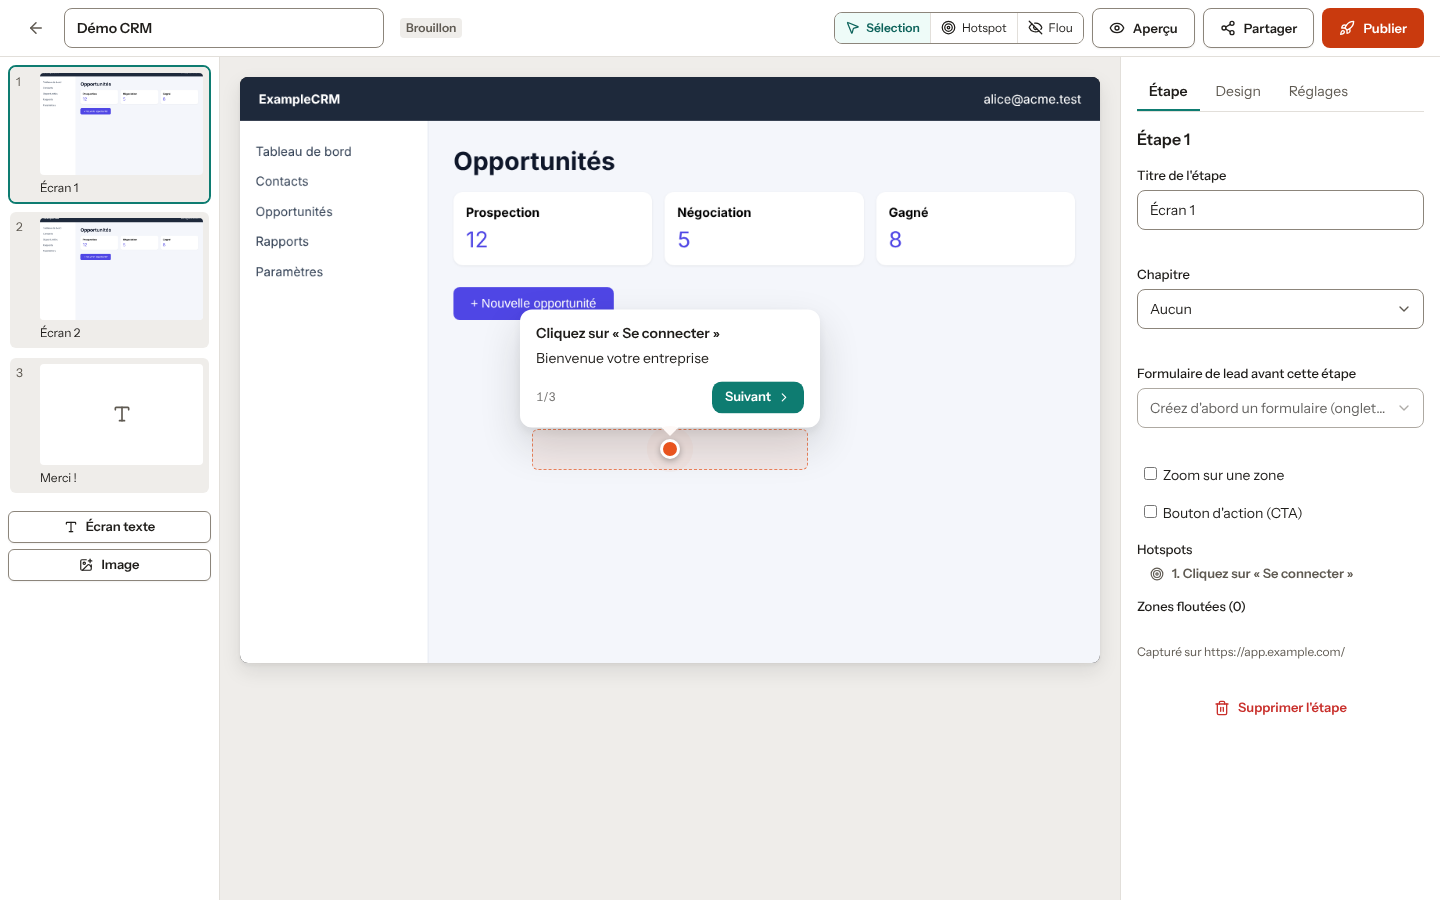
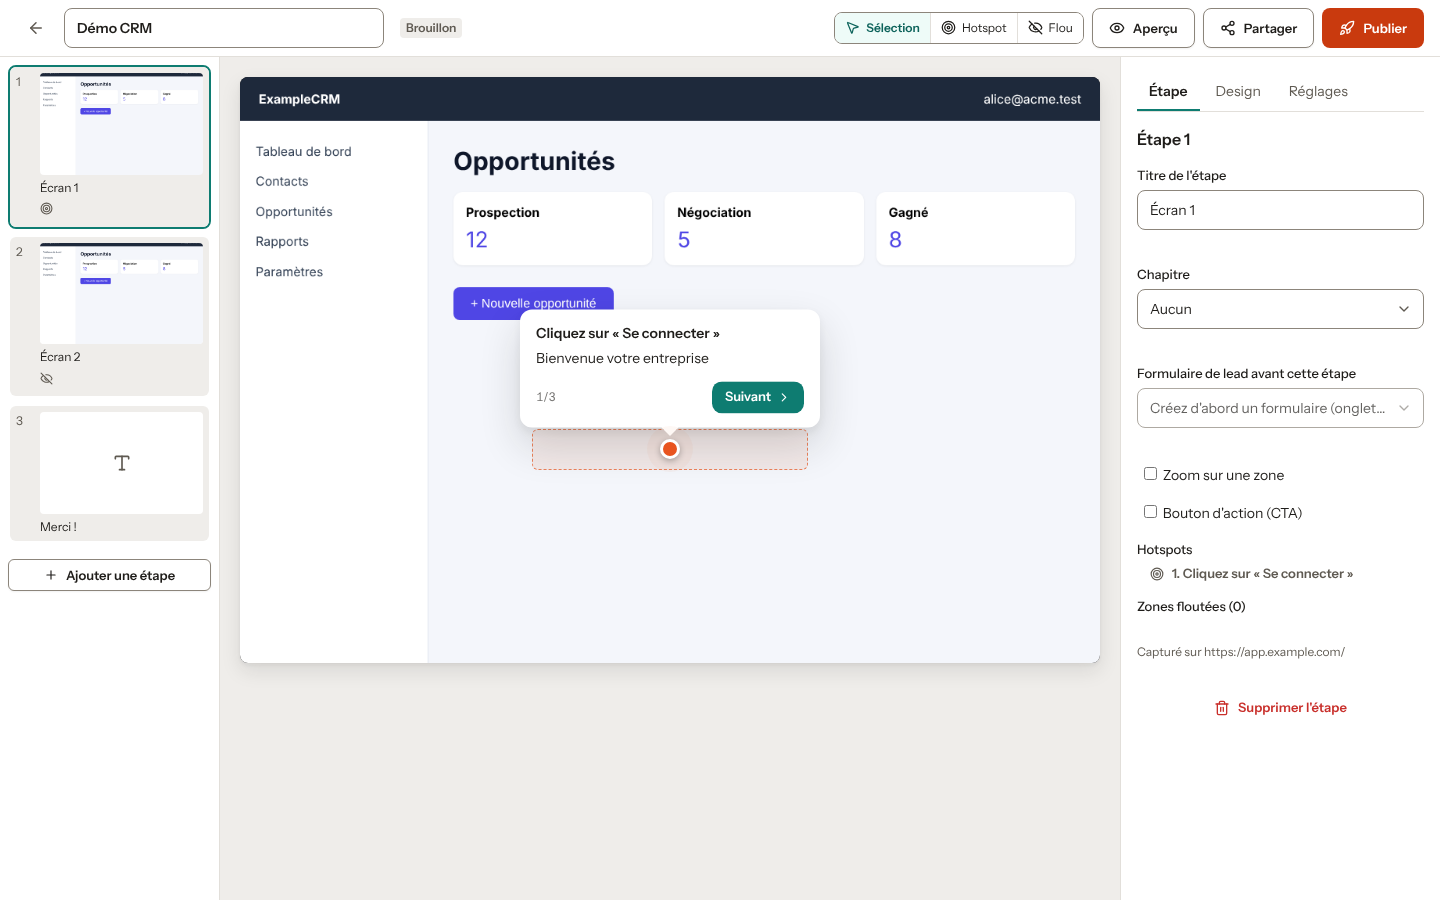
feat(editor): ED8 et ED10 — formulaire visible sur le canevas, badges d'état et menu « Ajouter une étape » dans le rail
Claude-Session: https://claude.ai/code/session_016yn81ZxTg2ruYKp45zgJVh

Changed region(s): [[0.0, 0.2178, 0.1562, 0.3111], [0.0, 0.56, 0.125, 0.6533], [0.0312, 0.3733, 0.0625, 0.4044]]

diff --git a/apps/web/src/pages/editor/StepList.tsx b/apps/web/src/pages/editor/StepList.tsx
@@ -1,7 +1,20 @@
-import { ArrowDown, ArrowUp, ImageOff, ImagePlus, Type } from 'lucide-react';
+import {
+  ArrowDown,
+  ArrowUp,
+  ClipboardList,
+  EyeOff,
+  ImageOff,
+  ImagePlus,
+  MousePointerClick,
+  Plus,
+  Target,
+  Type,
+  ZoomIn,
+} from 'lucide-react';
+import { Menu } from '../../components/Menu';
+import type { StepRow } from './types';
 import { useRef, useState } from 'react';
 import { useTranslation } from 'react-i18next';
-import { Button } from '@flowdsiml/ui';
 import type { DemoEditor } from './useDemoEditor';
 
 export function StepList({
@@ -67,6 +80,7 @@ export function StepList({
                   </span>
                 )}
                 <span className="steplist-title">{s.title || t('editor.untitled')}</span>
+                <StepBadges step={s} hotspots={editor.hotspots.filter((h) => h.step_id === s.id).length} />
               </button>
               {!readOnly && (
                 <span className="steplist-move">
@@ -92,18 +106,20 @@ export function StepList({
       </ol>
       {!readOnly && (
         <div className="stack" style={{ gap: 6, padding: 8 }}>
-          <Button
-            size="sm"
-            icon={<Type />}
-            onClick={() =>
-              void editor.addTextStep(current, t('editor.newTextStep')).then(() => onSelect(current + 1))
-            }
-          >
-            {t('editor.addTextStep')}
-          </Button>
-          <Button size="sm" icon={<ImagePlus />} onClick={() => file.current?.click()}>
-            {t('editor.addImageStep')}
-          </Button>
+          <Menu
+            label={t('editor.addStep')}
+            align="start"
+            trigger={{ icon: <Plus />, text: t('editor.addStep'), block: true }}
+            items={[
+              {
+                label: t('editor.addTextStep'),
+                icon: <Type />,
+                onSelect: () =>
+                  void editor.addTextStep(current, t('editor.newTextStep')).then(() => onSelect(current + 1)),
+              },
+              { label: t('editor.addImageStep'), icon: <ImagePlus />, onSelect: () => file.current?.click() },
+            ]}
+          />
           <input
             ref={file}
             type="file"
@@ -118,5 +134,28 @@ export function StepList({
         </div>
       )}
     </div>
+  );
+}
+
+/** Icônes d'état d'une étape dans le rail (ED10). */
+function StepBadges({ step, hotspots }: { step: StepRow; hotspots: number }) {
+  const { t } = useTranslation();
+  const blurs = Array.isArray(step.blurs) ? step.blurs.length : 0;
+  const items = [
+    hotspots > 0 && { icon: <Target />, label: t('editor.badgeHotspots', { count: hotspots }) },
+    step.gate_form_id && { icon: <ClipboardList />, label: t('editor.badgeForm') },
+    step.cta && { icon: <MousePointerClick />, label: t('editor.badgeCta') },
+    step.zoom && { icon: <ZoomIn />, label: t('editor.badgeZoom') },
+    blurs > 0 && { icon: <EyeOff />, label: t('editor.badgeBlurs', { count: blurs }) },
+  ].filter(Boolean) as Array<{ icon: React.ReactNode; label: string }>;
+  if (!items.length) return null;
+  return (
+    <span className="steplist-badges">
+      {items.map((b) => (
+        <span key={b.label} title={b.label} aria-label={b.label} role="img">
+          {b.icon}
+        </span>
+      ))}
+    </span>
   );
 }

diff --git a/apps/web/src/pages/editor/Canvas.tsx b/apps/web/src/pages/editor/Canvas.tsx
@@ -8,7 +8,7 @@ import { useTranslation } from 'react-i18next';
 import { applyVariables, richTextToHtml } from '@flowdsiml/core';
 import { themeSchema } from '@flowdsiml/manifest';
 import { beaconCenter, themeVars, tipClass } from '@flowdsiml/player-core';
-import { ChevronRight } from 'lucide-react';
+import { ChevronRight, ClipboardList } from 'lucide-react';
 import type { Rect } from '@flowdsiml/manifest';
 import type { DemoEditor } from './useDemoEditor';
 import { asAction, asCta, asRects, asSettings, asZoom, type Selection, type StepRow } from './types';
@@ -23,6 +23,7 @@ interface Props {
   selection: Selection;
   setSelection: (s: Selection) => void;
   readOnly: boolean;
+  onEditForm?: () => void;
 }
 
 const clamp = (v: number, min = 0, max = 1) => Math.min(max, Math.max(min, v));
@@ -34,7 +35,16 @@ type Drag =
   | { kind: 'draw'; x0: number; y0: number; rect: Rect }
   | { kind: 'blur-move'; index: number; dx: number; dy: number };
 
-export function Canvas({ editor, step, tool, setTool, selection, setSelection, readOnly }: Props) {
+export function Canvas({
+  editor,
+  step,
+  tool,
+  setTool,
+  selection,
+  setSelection,
+  readOnly,
+  onEditForm,
+}: Props) {
   const { t } = useTranslation();
   const frame = useRef<HTMLDivElement>(null);
   const [drag, setDrag] = useState<Drag | null>(null);
@@ -153,9 +163,24 @@ export function Canvas({ editor, step, tool, setTool, selection, setSelection, r
     }
   }
 
+  // ED8 : formulaire de lead visible sur le canevas
+  const gateForm = step.gate_form_id ? editor.forms.find((f) => f.id === step.gate_form_id) : undefined;
+  const formChip = gateForm && (
+    <div className="canvas-form-chip">
+      <ClipboardList size={16} aria-hidden="true" />
+      <span>{t('editor.formOnStep', { title: gateForm.title })}</span>
+      {onEditForm && (
+        <button type="button" className="fd-btn fd-btn--sm fd-btn--ghost" onClick={onEditForm}>
+          {t('editor.editForm')}
+        </button>
+      )}
+    </div>
+  );
+
   if (step.kind === 'text' || !step.image_path) {
     return (
       <div className="canvas-text" onPointerDown={() => setSelection({ kind: 'step' })}>
+        {formChip}
         <h2>{step.title || t('editor.untitled')}</h2>
         <div dangerouslySetInnerHTML={{ __html: richTextToHtml(step.body) }} />
       </div>
@@ -181,6 +206,7 @@ export function Canvas({ editor, step, tool, setTool, selection, setSelection, r
       onPointerUp={onUp}
       onPointerCancel={onUp}
     >
+      {formChip}
       {url ? (
         <img src={url} alt="" draggable={false} />
       ) : (

diff --git a/apps/web/src/components/Menu.tsx b/apps/web/src/components/Menu.tsx
@@ -14,10 +14,13 @@ export function Menu({
   label,
   items,
   align = 'end',
+  trigger,
 }: {
   label: string;
   items: Array<MenuItem | 'separator'>;
   align?: 'start' | 'end';
+  /** Bouton déclencheur visible (icône + libellé) au lieu du « ⋯ ». */
+  trigger?: { icon: ReactNode; text: string; block?: boolean };
 }) {
   const [open, setOpen] = useState(false);
   const root = useRef<HTMLDivElement>(null);
@@ -52,8 +55,12 @@ export function Menu({
     <div className="menu" ref={root} onKeyDown={onKey}>
       <button
         type="button"
-        className="fd-btn fd-btn--ghost fd-btn--sm fd-btn--icon menu-trigger"
-        aria-label={label}
+        className={
+          trigger
+            ? `fd-btn fd-btn--sm menu-trigger${trigger.block ? ' fd-btn--block' : ''}`
+            : 'fd-btn fd-btn--ghost fd-btn--sm fd-btn--icon menu-trigger'
+        }
+        aria-label={trigger ? undefined : label}
         aria-haspopup="menu"
         aria-expanded={open}
         aria-controls={id}
@@ -63,7 +70,16 @@ export function Menu({
           setOpen(!open);
         }}
       >
-        <MoreHorizontal size={18} aria-hidden="true" />
+        {trigger ? (
+          <>
+            <span className="fd-btn__icon" aria-hidden="true">
+              {trigger.icon}
+            </span>
+            {trigger.text}
+          </>
+        ) : (
+          <MoreHorizontal size={18} aria-hidden="true" />
+        )}
       </button>
       {open && (
         <div className={`menu-list menu-list--${align}`} role="menu" id={id}>

diff --git a/apps/web/src/pages/editor/editor.css b/apps/web/src/pages/editor/editor.css
@@ -451,3 +451,43 @@
 .preview-error svg {
   color: var(--fd-color-warning);
 }
+.steplist-badges {
+  grid-column: 2;
+  display: flex;
+  gap: 6px;
+  color: var(--fd-color-text-muted);
+}
+.steplist-badges svg {
+  width: 13px;
+  height: 13px;
+}
+.fd-btn--block {
+  width: 100%;
+  justify-content: center;
+}
+.steplist .menu {
+  display: flex;
+}
+.steplist .menu-list {
+  width: 100%;
+}
+.canvas-form-chip {
+  position: absolute;
+  top: var(--fd-space-3);
+  left: 50%;
+  transform: translateX(-50%);
+  z-index: 6;
+  display: inline-flex;
+  align-items: center;
+  gap: var(--fd-space-2);
+  padding: 4px 4px 4px 12px;
+  border-radius: var(--fd-radius-full, 999px);
+  background: var(--fd-color-surface);
+  color: var(--fd-color-text);
+  box-shadow: var(--fd-shadow-md);
+  font-size: var(--fd-font-xs);
+  white-space: nowrap;
+}
+.canvas-text {
+  position: relative;
+}

diff --git a/apps/web/src/pages/editor/EditorPage.tsx b/apps/web/src/pages/editor/EditorPage.tsx
@@ -184,6 +184,7 @@ export function EditorPage() {
               selection={selection}
               setSelection={setSelection}
               readOnly={readOnly}
+              onEditForm={() => setTab('settings')}
             />
           ) : (
             <div className="center fd-muted">{t('editor.empty')}</div>
